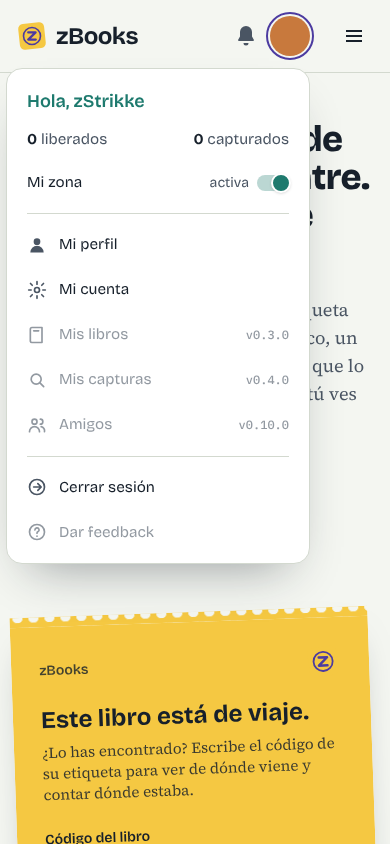
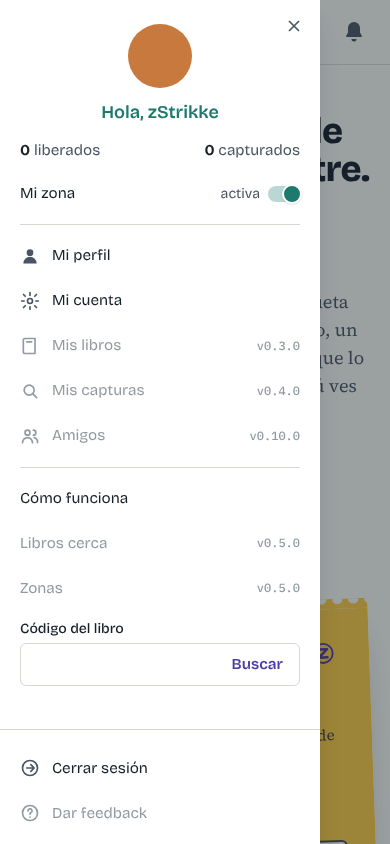
docs(cabecera): capturas del panel de móvil, changelog y diario (#95)
Claude-Session: https://claude.ai/code/session_01CNPkaWmQrEq7utmH7VieTy

diff --git a/CHANGELOG.md b/CHANGELOG.md
@@ -26,7 +26,7 @@ Formato basado en [Keep a Changelog](https://keepachangelog.com/es-ES/1.1.0/) y 
 - Guía del desarrollador: comandos, flujo de issue a PR, archivos de referencia y casos frecuentes (#51).
 
 ### Changed
-- Cabecera: con sesión, el avatar abre un menú de usuario (saludo, libros liberados y capturados, estado de Mi zona, Mi perfil, Mi cuenta, Cerrar sesión). Lo que aún no existe sale desactivado con su versión: Mis libros, Mis capturas, Amigos y Dar feedback. Al lado, una campana abre «Tus notificaciones» con los tipos que llegarán, desactivados: mensajes privados, capturas de tus libros, libros liberados cerca, eventos y solicitudes de amistad (#95).
+- Cabecera: con sesión, el avatar abre un menú de usuario (en escritorio, un desplegable; en móvil, un panel lateral desde la izquierda que también lleva la navegación y el buscador de ZBID) (saludo, libros liberados y capturados, estado de Mi zona, Mi perfil, Mi cuenta, Cerrar sesión). Lo que aún no existe sale desactivado con su versión: Mis libros, Mis capturas, Amigos y Dar feedback. Al lado, una campana abre «Tus notificaciones» con los tipos que llegarán, desactivados: mensajes privados, capturas de tus libros, libros liberados cerca, eventos y solicitudes de amistad (#95).
 - El perfil (`/u/{username}`) deja de ser público: pide sesión y solo lo ve el propio miembro (y sus amigos, cuando llegue la #37). Los demás reciben un 404, como si no existiera (#93).
 - Portada: «Cómo funciona» muestra el ciclo del libro con una línea que vuelve del último paso al primero, y la línea discontinua lleva menos guiones (#91).
 - La API v1 se aplaza a su propio hito (v0.11.0) para priorizar la web; la plantilla de PR y el ADR-0007 lo recogen (#74).

diff --git a/docs/DIARIO.md b/docs/DIARIO.md
@@ -1043,7 +1043,9 @@ El PO subía un avatar en Mi cuenta y la página se rompía. El fichero se guard
   - desactivados con su versión: Mis libros (v0.3.0), Mis capturas (v0.4.0) y Amigos (v0.10.0);
   - Cerrar sesión y Dar feedback (desactivado).
 - **Campana de notificaciones** junto al avatar (`partials/notificaciones.blade.php`), a petición del PO: «Tus notificaciones» con los tipos que llegarán, desactivados con su versión: mensajes privados (sin versión aún), capturas de tus libros y libros liberados cerca (v0.5.0, épica #22), eventos (v0.9.0) y solicitudes de amistad (v0.10.0).
-- La cabecera deja los enlaces sueltos (username, Mi cuenta, Salir); sin sesión no cambia. 6 tests nuevos (195 en total).
+- **Móvil, a petición del PO (se veía muy apretado):** el avatar pasa a la izquierda de la cabecera y abre un **panel lateral** con el menú de usuario, la navegación y el buscador de ZBID; abajo, Cerrar sesión y Dar feedback. A la derecha queda solo la campana. Sin sesión, la hamburguesa abre el mismo panel con Entrar y Crear cuenta. Se cierra con Escape, la ✕ o tocando fuera, y bloquea el scroll de la página mientras está abierto.
+- **Piezas compartidas** (`partials/usuario/{resumen,enlaces,salida}`) y `<x-avatar-mini>`: el desplegable de escritorio y el panel de móvil usan lo mismo.
+- La cabecera deja los enlaces sueltos (username, Mi cuenta, Salir). 8 tests nuevos (197 en total).
 
 ### Decisiones
 - **La zona no es un interruptor:** activar o desactivar la zona no existe como función. Se enseña si hay zona, con aspecto de interruptor, y el enlace lleva a Mi zona para cambiarla.
